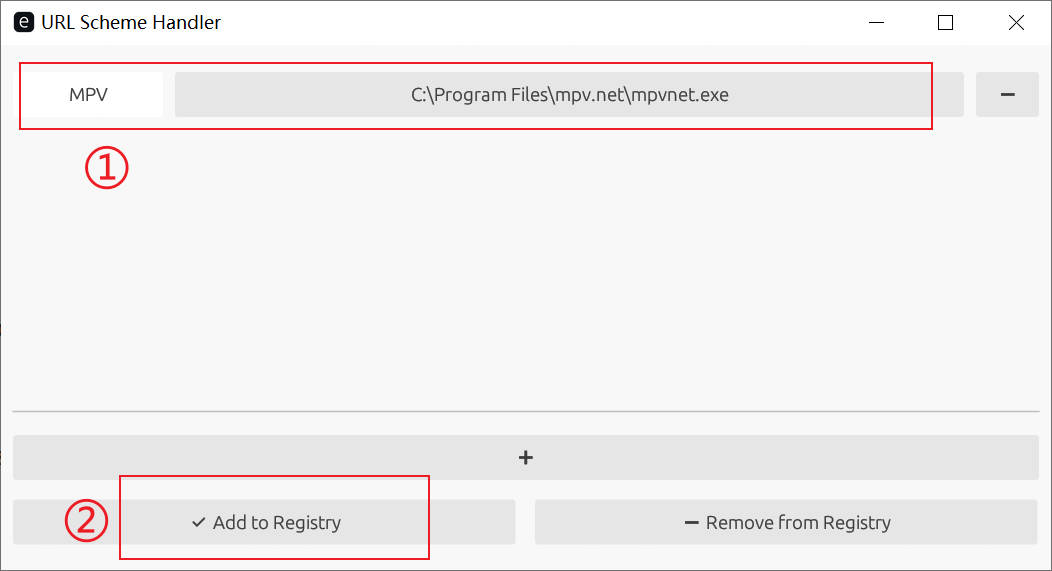
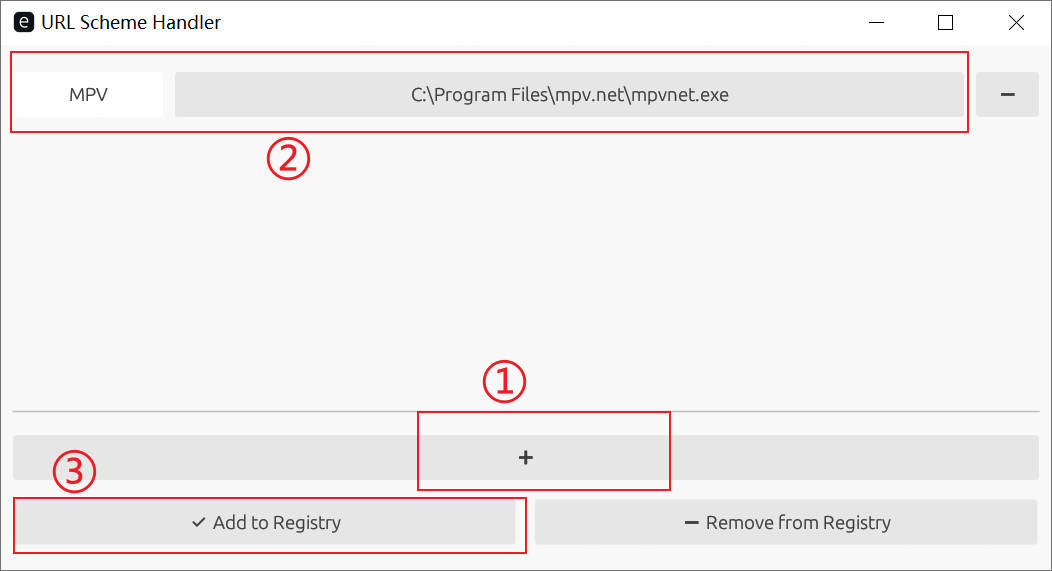
add github

Changed region(s): [[0.0, 0.0893, 0.9125, 0.3275], [0.0, 0.7741, 0.6388, 0.9825], [0.3954, 0.6252, 0.6388, 0.7443]]

diff --git a/play-with-mpv.user.js b/play-with-mpv.user.js
@@ -362,7 +362,13 @@
 
     modal.innerHTML = `
         <div style="display: flex; justify-content: space-between; align-items: center; border-bottom: 1px solid rgba(0,0,0,0.06); padding-bottom: 10px;">
-          <span id="mpv-title" style="font-size: 16px; font-weight: bold; color: #1a1a1a;"></span>
+          <div class="mpv-modal-title" style="font-size: 15px; font-weight: bold; color: #333; display: flex; align-items: center;">
+            <span id="mpv-title" style="font-size: 16px; font-weight: bold; color: #1a1a1a; display: inline-block;"></span>
+            <a style="font-size: 14px; color: #ff0055; text-decoration: none;display: flex; align-items: center; margin-left: 5px;" target="_blank" title="GitHub" href="https://github.com/akFace/play-with-mpv">
+              <svg t="1731923678389" class="icon" viewBox="0 0 1024 1024" version="1.1" xmlns="http://www.w3.org/2000/svg" p-id="5894" width="20" height="20">
+                        <path d="M20.48 503.72608c0 214.4256 137.4208 396.73856 328.94976 463.6672 25.8048 6.5536 21.87264-11.8784 21.87264-24.33024v-85.07392c-148.93056 17.44896-154.86976-81.1008-164.94592-97.52576-20.23424-34.52928-67.91168-43.33568-53.69856-59.76064 33.91488-17.44896 68.48512 4.42368 108.46208 63.61088 28.95872 42.88512 85.44256 35.6352 114.15552 28.4672a138.8544 138.8544 0 0 1 38.0928-66.7648c-154.25536-27.60704-218.60352-121.77408-218.60352-233.79968 0-54.31296 17.94048-104.2432 53.0432-144.54784-22.36416-66.43712 2.08896-123.24864 5.3248-131.6864 63.81568-5.7344 130.00704 45.6704 135.168 49.68448 36.2496-9.78944 77.57824-14.9504 123.82208-14.9504 46.4896 0 88.064 5.3248 124.5184 15.23712 12.288-9.4208 73.80992-53.53472 133.12-48.128 3.15392 8.43776 27.0336 63.93856 6.02112 129.4336 35.59424 40.38656 53.69856 90.76736 53.69856 145.24416 0 112.18944-64.7168 206.4384-219.42272 233.71776a140.0832 140.0832 0 0 1 41.7792 99.9424v123.4944c0.86016 9.87136 0 19.6608 16.50688 19.6608 194.31424-65.49504 334.2336-249.15968 334.2336-465.5104C1002.57792 232.48896 782.66368 12.77952 511.5904 12.77952 240.18944 12.65664 20.48 232.40704 20.48 503.72608z" fill="#000000" opacity=".65" p-id="5895"></path>
+                    </svg></a>
+          </div>
           <span id="mpv-close-modal" style="cursor:pointer; font-size: 18px; color:#888; font-weight:bold; transition:color 0.2s;">&times;</span>
         </div>
         

diff --git a/README.md b/README.md
@@ -1,10 +1,9 @@
 # play-with-mpv 使用 mpv 播放网页中的视频
 
 - 使用外部播放器播放网页中的视频
-- 支持大部分视频网站，部分加密视频
 - 本工具通过嗅探资源方式获取视频原始链接 + `yt-dlp` 配合，能够覆盖大部分视频网站
-- [yt-dlp 支持的网站](https://github.com/yt-dlp/yt-dlp/blob/master/supportedsites.md)
-- 注：由于是通过嗅探方式获取原始链接，所以唤起 mpv 播放器前，请先等待网页视频加载播放后再唤起 mpv 播放器
+- 注：由于是通过嗅探方式获取原始链接，**所以唤起 mpv 播放器前，请先等待网页视频加载播放后再唤起 mpv 播放器**
+- 支持大部分视频网站，部分加密视频 以及 [yt-dlp 支持的网站](https://github.com/yt-dlp/yt-dlp/blob/master/supportedsites.md)
 - [>>常见相关问题](https://github.com/akFace/play-with-mpv#%E7%9B%B8%E5%85%B3%E9%97%AE%E9%A2%98)
 
 ## 🧱 安装
@@ -24,7 +23,7 @@
 - 确保已经安装：[👉 yt-dlp ](https://github.com/yt-dlp/yt-dlp/releases)，进入下载`yt-dlp.exe`，放到`mpv.exe`同目录下，即：播放器安装目录
 
 - 打开 URL Scheme Handler 并设置如图：注意 MPV 为大写
-  ![image](https://github.com/akFace/picx-images-hosting/raw/master/Tools/Snipaste_2026-07-16_17-53-00.99u1oq1914.webp)
+  ![image](https://github.com/akFace/play-with-mpv/raw/main/images/Snipaste_2026-07-16_17-53-00.jpg)
 
 ### 相关问题
 